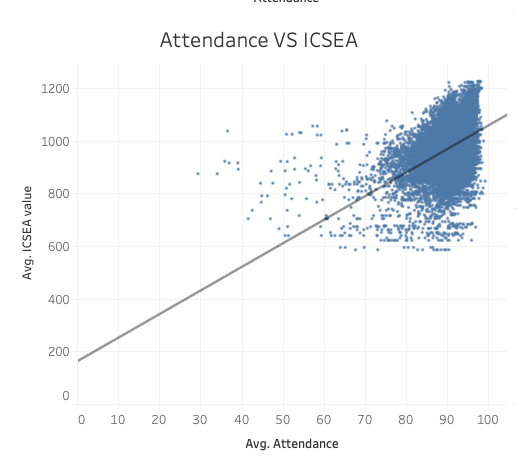
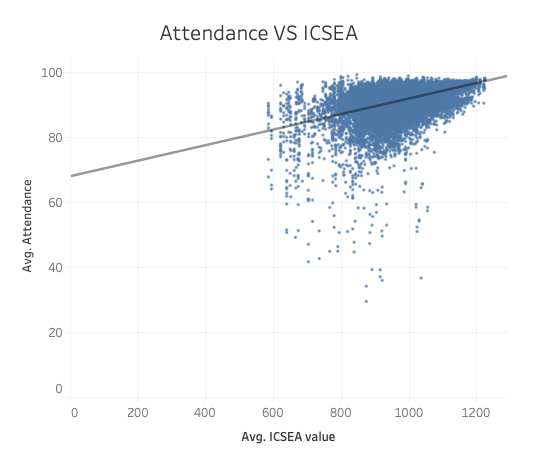
reuploaded charts & added more comments in README

diff --git a/README.md b/README.md
@@ -12,65 +12,89 @@ Please note that records with null ASGS_remoteness values (62 records) are exclu
 
 ## Hypothesis 1: Correlation between Attendance and CompClass %
 
-### Model Overview
+## Trend Lines Model
 
-- The linear trend model aims to predict the sum of CompClass % based on the sum of attendance.
-- The model formula incorporates the factor "Year," accounting for potential yearly variations.
-- Significance is evaluated at p <= 0.05.
+A linear trend model has been established to examine the relationship between the average of Attendance and the average of CompClass %. The model's significance is assessed at a p-value threshold of <= 0.05.
 
-### Model Visualization
+### Hypothesis:
 
-![Attendance vs CompClass](analysis/Ana_Attendasnce_VS_Compclass.png)
+**Hypothesis:** There is a significant correlation between attendance and the percentage of "CompClass %" (CompClass percentage) among the observed data.
 
-### Model Statistics
-![Attendance vs CompClass](analysis/TrendModel_Att_VS_Compclass.png)
+### Model Overview:
 
-- Number of Modeled Observations: 1641
-- Number of Filtered Observations: 518
-- Model Degrees of Freedom: 2
-- Residual Degrees of Freedom (DF): 1639
-- Sum Squared Error (SSE): 199.275
-- Mean Squared Error (MSE): 0.121583
-- R-Squared: 0.0667935
-- Standard Error: 0.348688
-- P-Value (Significance): < 0.0001
+- **Model formula:** (Avg. CompClass % + intercept)
+- **Modeled observations:** 13186
+- **Filtered observations:** 9771
+- **Model degrees of freedom:** 2
+- **Residual degrees of freedom (DF):** 13184
+- **SSE (sum squared error):** 185687
+- **MSE (mean squared error):** 14.0843
+- **R-Squared:** 0.0395164
+- **Standard error:** 3.7529
+- **p-value (significance):** < 0.0001
 
-### Analysis of Variance
+### Individual Trend Lines:
 
-- The factor "Year" has 0 degrees of freedom, suggesting potential insignificance.
-- Individual trend lines for "Attendance" indicate statistically significant impact on "CompClass %."
-- Coefficient for "Attendance": -0.0220295
-- Intercept value: 2.47066
+- The analysis focuses on the trend line depicting the correlation between Attendance and Avg. CompClass %.
+- For "Avg. CompClass %," the p-value is < 0.0001, implying a statistically significant impact on Attendance.
+- The coefficient for "Avg. CompClass %" is -2.1457, suggesting that for each unit increase in the average of CompClass %, Attendance decreases by this amount.
+- The intercept value is 93.1779, signifying the expected Attendance when the average of CompClass % is zero.
 
-## Hypothesis 2: Correlation between Attendance and ICSEA Value
+### Model Visualization:
 
-### Model Overview
+![Trend Model Visualization](analysis/Ana_Attendasnce_VS_Compclass.png)
 
-- Linear trend model investigates the relationship between average ICSEA value and average attendance.
-- Model formula includes average attendance and an intercept.
-- Significance assessed at p <= 0.05.
+### Interpretation:
 
-### Model Visualization
+- The R-Squared value of 0.0395164 denotes that approximately 3.95% of the variability in Attendance can be elucidated by the variation in the average of CompClass %.
+- The p-value of < 0.0001 provides robust evidence of a significant correlation between the average of CompClass % and Attendance.
+- The negative coefficient for "Avg. CompClass %" implies that as the average of CompClass % increases, Attendance tends to decrease.
 
-![Attendance vs CompClass](analysis/Ana_Attendance_VS_ICSEA.png)
+### Conclusion:
 
-### Model Statistics
-![Attendance vs CompClass](analysis/TrendModel_Att_VS_ICSEA.png)
+Based on this analysis, compelling statistical evidence supports a noteworthy correlation between the average of CompClass % and Attendance. Nevertheless, the relatively modest R-Squared value suggests that the model's ability to explain Attendance variance based on the average of CompClass % is limited. Delving into additional factors influencing this relationship might be prudent.
 
-- Number of Modeled Observations: 22264
-- Number of Filtered Observations: 693
-- Model Degrees of Freedom: 2
-- Residual Degrees of Freedom (DF): 22262
-- Sum Squared Error (SSE): 1.57873e+08
-- Mean Squared Error (MSE): 7091.61
-- R-Squared: 0.214277
-- Standard Error: 84.2117
-- P-Value (Significance): < 0.0001
+## Hypothesis 2: Correlation between Attendance and ICSEA %
 
-### Interpretation
+A linear trend model has been established to examine the relationship between the average of Attendance and the average of ICSEA value. The model's significance is assessed at a p-value threshold of <= 0.05.
 
-- Strong evidence of significant correlation between attendance and ICSEA value.
-- Positive coefficient for "Avg. Attendance": 8.96531
+### Hypothesis:
+
+**Hypothesis:** There is a significant correlation between attendance and the ICSEA (the Index of Community Socio-Educational Advantage) among the observed data.
+
+### Model Overview:
+
+- **Model formula:** (Avg. ICSEA value + intercept)
+- **Modeled observations:** 22264
+- **Filtered observations:** 693
+- **Model degrees of freedom:** 2
+- **Residual degrees of freedom (DF):** 22262
+- **SSE (sum squared error):** 420876
+- **MSE (mean squared error):** 18.9056
+- **R-Squared:** 0.214277
+- **Standard error:** 4.34805
+- **p-value (significance):** < 0.0001
+
+### Individual Trend Lines:
+
+- The analysis focuses on the trend line depicting the correlation between Attendance and Avg. ICSEA value.
+- For "Avg. ICSEA value," the p-value is < 0.0001, indicating a statistically significant impact on Attendance.
+- The coefficient for "Avg. ICSEA value" is 0.0239007, suggesting that for each unit increase in the average of ICSEA value, Attendance increases by this amount.
+- The intercept value is 67.9207, signifying the expected Attendance when the average of ICSEA value is zero.
+
+### Model Visualization:
+
+![Trend Model Visualization](analysis/Ana_Attendance_VS_ICSEA.png)
+
+### Interpretation:
+
+- The R-Squared value of 0.214277 indicates that around 21.43% of the variability in Attendance can be explained by the variation in the average of ICSEA value.
+- The p-value of < 0.0001 provides strong evidence of a significant correlation between the average of ICSEA value and Attendance.
+- The positive coefficient for "Avg. ICSEA value" implies that as the average of ICSEA value increases, Attendance tends to increase.
+
+### Conclusion:
+
+Based on this analysis, compelling statistical evidence supports a significant correlation between the average of ICSEA value and Attendance. The relatively high R-Squared value suggests that the model can explain a notable portion of Attendance variance based on the average of ICSEA value. Nevertheless, additional factors influencing this relationship might warrant further investigation.
 
 ## Extra Findings
 
@@ -79,7 +103,13 @@ I hypothesized that varying levels of school remoteness might influence the corr
 Specifically, within Inner Regional Australia and Major Cities of Australia schools, an inverse coefficient is observed between attendance and compclass%. Conversely, in schools situated in Outer Regional Australia, Remote Australia, and Very Remote Australia, a positive coefficient exists between attendance and compclass%.
 
 It's noteworthy that the R-squared values, indicating the extent to which the model explains the relationship, are relatively modest in Inner Regional Australia and Outer Regional Australia. In comparison, they show a more moderate explanatory capacity in Major Cities of Australia, Remote Australia, and Very Remote Australia.
-![Attendance VS Compclass by Remoteness](analysis/Ana_Attendance_VS_Compclass_byRemoteness.png)
+![Attendance VS Compclass by Remoteness](analysis/Ana_Attendance_VS_ICSEA_byRemoteness.png)
+
+### Sample Size:
+
+The size of samples used for this analysis can be seen from the graph below:
+
+![Sample Size Visualization](analysis/sample_size.png)
 
 ### Note
 
